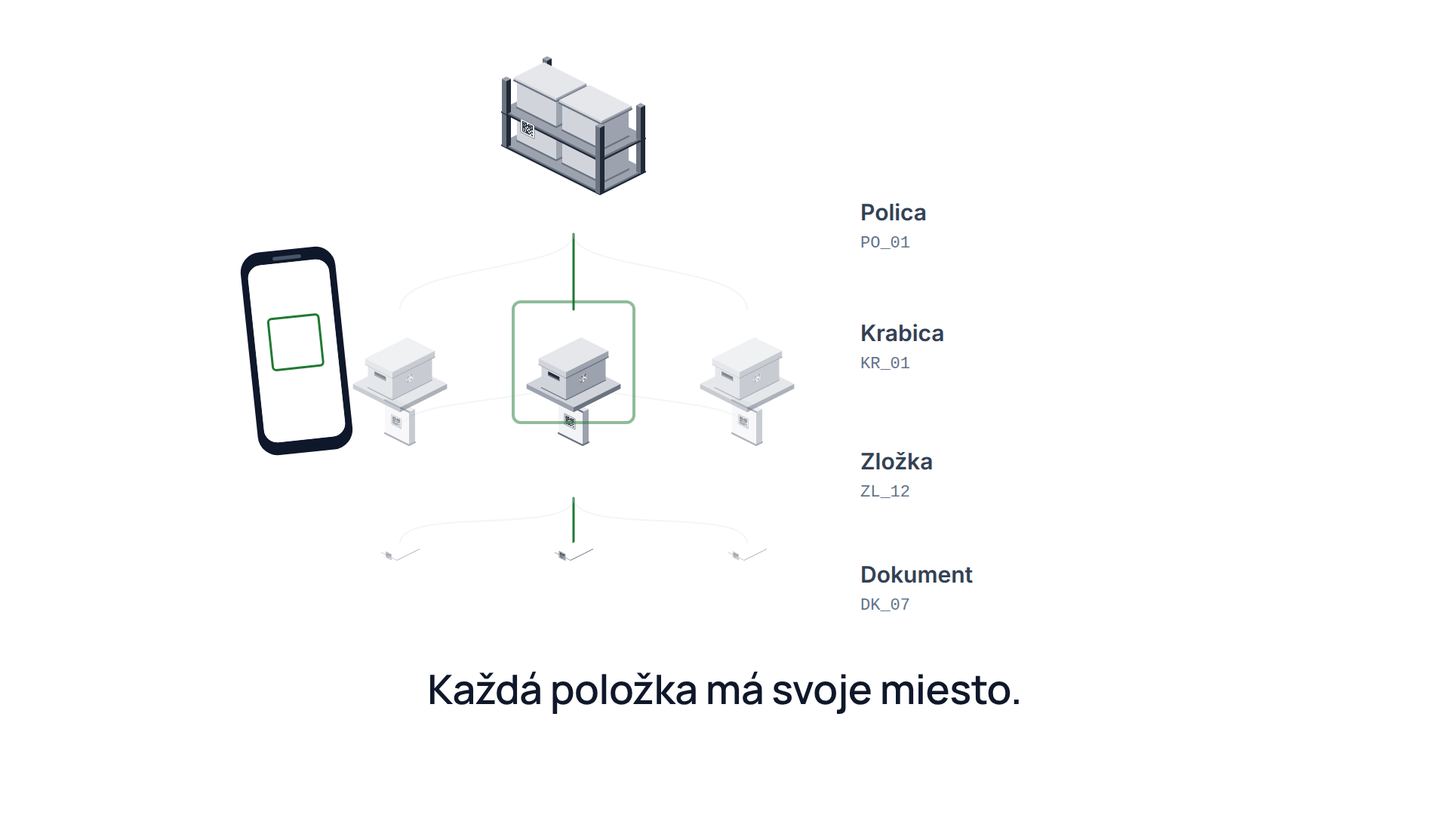
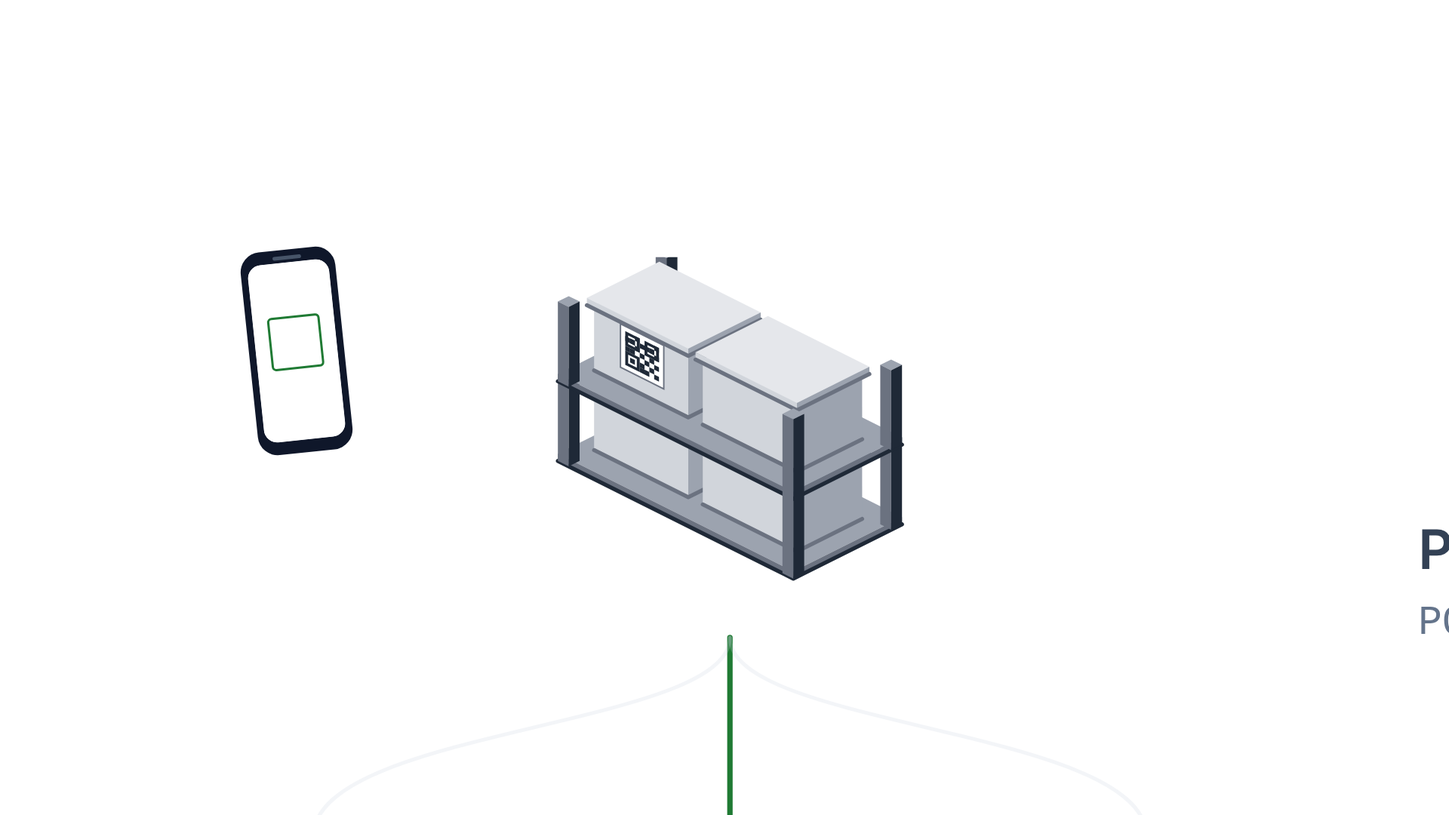
Kolo 7: otázniky pri zložkách (C3), jeden veľký otáznik (C4), C7 prázdna polica + priblíženie na policu, 12 s
Claude-Session: https://claude.ai/code/session_0174g5XfE49UzAEjnWwaQFuK

diff --git a/src/scenes/C7_Hierarchia.tsx b/src/scenes/C7_Hierarchia.tsx
@@ -4,6 +4,7 @@ import { Scene, useCaptions } from '../components/Scene';
 import { Caption } from '../components/Text';
 import { PhoneFrame } from '../components/Device';
 import { ArchiveBox } from '../components/ArchiveBox';
+import { Camera } from '../lib/camera';
 import { Binder, Carton, IsoBox, QrOnLeftFace, ShelfFrame } from '../lib/iso';
 import { drawProps, pop, settle, tween } from '../lib/anim';
 import { captions } from '../copy/sk';
@@ -12,21 +13,25 @@ import { BRAND, FONT, INK, ISO, SAFE } from '../theme';
 /**
  * C7 - Hierarchia + sken. Zacina tou istou krabicou ako C5 (zatvorena, s QR,
  * velka v strede); kamera sa oddiali, vedla sa objavia rovnake krabice s
- * medzerou uprostred a velka krabica sa do nej zaradi; nad nou vyrastie
- * polica (2 rady), pod nou zlozky a dokumenty. Mobil naskenuje krabicu,
- * vetva sa zvyrazni; strom vybledne, mobil najde na cely frame = strih. 10 s.
+ * medzerou a velka krabica sa do nej zaradi; nad nou vyrastie prazdna polica
+ * (2 rady), pod nou zlozky a dokumenty. Mobil naskenuje krabicu, vetva sa
+ * zvyrazni; kamera sa priblizi spat na policu a krabice sa do nej poukladaju
+ * (KR_01 s QR); strom vybledne, mobil najde na cely frame = strih. 12 s.
  *
  * ms: 0-500 hold · 500-2000 oddialenie + zaradenie · 900-1400 surodenci ·
- * 2100+ polica, 2500 zlozky, 2900 dokumenty · 2600+i*200 QR · 3000 caption ·
- * 4200 sken · 4700 zvyraznenie vetvy · 6800 caption out · 7000 strom out ·
- * 7300-8500 najazd.
+ * 2100 polica, 2500 zlozky, 2900 dokumenty · 2600+i*200 QR · 3000 caption ·
+ * 4200 sken · 4700 vetva · 5500-7000 priblizenie na policu · 6000+i*250
+ * krabice do police · 8000 caption out · 8500 strom out · 9000-10500 najazd.
  */
 const PX = 3;
 const PHONE_AT = { x: 330, y: 330, w: 7 * PX * 6, h: 15 * PX * 6 };
 const NODE_X = 500;
-const NODES_Y = [130, 330, 500, 650];
+const NODES_Y = [110, 300, 540, 690];
 const BOX = 150; // velkost uzla "Krabica" (ArchiveBox)
 const SIB = 230;
+const SVG_AT = { x: 260, y: SAFE.illoTop };
+// stred police (v px stranky) pre priblizenie
+const SHELF_C = { x: SVG_AT.x + NODE_X - 3, y: SVG_AT.y + NODES_Y[0] + 20 - 47 };
 
 export const C7_Hierarchia: React.FC = () => {
   const frame = useCurrentFrame();
@@ -38,15 +43,16 @@ export const C7_Hierarchia: React.FC = () => {
   const line = (i: number) => tw([2300, 2500, 2900][i], 400);
   const qr = (i: number) => pop(frame, 2600 + i * 200);
   const sibIn = (k: number) => settle(frame, 900 + k * 250);
-  const scan = tw(4200, 500);
+  const scan = tw(4200, 500) * (1 - tw(5500, 400));
   const glow = tw(4700, 400);
-  const treeOut = 1 - tw(7000, 500);
-  const fill = tw(7300, 1200);
+  const placed = (i: number) => pop(frame, 6000 + i * 250);
+  const treeOut = 1 - tw(8500, 500);
+  const fill = tw(9000, 1500);
 
   // velka krabica z C5 (ArchiveBox 860 px) sa zmensi a zasunie do medzery medzi rovnake krabice
   const bigSize = 860 - (860 - BOX) * zoomOut;
-  const nodeLeft = 260 + NODE_X - BOX / 2;
-  const nodeTop = SAFE.illoTop + NODES_Y[1] + 20;
+  const nodeLeft = SVG_AT.x + NODE_X - BOX / 2;
+  const nodeTop = SVG_AT.y + NODES_Y[1] + 20;
   const bigLeft = 960 - bigSize / 2 + (nodeLeft - (960 - BOX / 2)) * zoomOut;
   const bigTop = SAFE.illoTop - 40 + (nodeTop - (SAFE.illoTop - 40)) * zoomOut;
 
@@ -57,17 +63,22 @@ export const C7_Hierarchia: React.FC = () => {
       <g transform={`translate(${x} ${y}) translate(0 ${(1 - t) * -20})`} opacity={t * dim}>
         <g transform="translate(0 20)">
           {level === 0 ? (
-            <g>
-              <ShelfFrame x={-65} y={-30} w={130} d={60} levels={2} levelH={44} topBoard={false}>
-                {(lv) => (
-                  <g>
-                    <Carton x={-57} y={-18} z={lv * 44 + 4} />
-                    <Carton x={3} y={-18} z={lv * 44 + 4} />
-                  </g>
-                )}
-              </ShelfFrame>
-              <QrOnLeftFace x={-40} y={30} z={30} size={18} s={q} />
-            </g>
+            <ShelfFrame x={-65} y={-30} w={130} d={60} levels={2} levelH={44} topBoard={false}>
+              {(lv) => (
+                <g>
+                  {[0, 1].map((k) => {
+                    const i = lv * 2 + k;
+                    const p = placed(i);
+                    const isMain = i === 2;
+                    return (
+                      <g key={k} transform={`translate(0 ${(1 - p) * -30})`} opacity={p}>
+                        <Carton x={-57 + k * 60} y={-18} z={lv * 44 + 4} qr={isMain ? p : 0} />
+                      </g>
+                    );
+                  })}
+                </g>
+              )}
+            </ShelfFrame>
           ) : level === 2 ? (
             <g>
               <Binder x={-16} y={-4} z={0} />
@@ -86,58 +97,60 @@ export const C7_Hierarchia: React.FC = () => {
 
   return (
     <Scene mode="light">
-      <svg width={1400} height={760} viewBox="0 0 1400 760" style={{ position: 'absolute', left: 260, top: SAFE.illoTop, opacity: treeOut }}>
-        {NODES_Y.slice(1).map((ny, i) => {
-          const py = NODES_Y[i] + (i === 0 ? 120 : 100);
-          const t = line(i);
-          return (
-            <g key={i}>
-              {[0, ...sib[i + 1]].map((dx, k) => {
-                const d = `M${NODE_X} ${py} C ${NODE_X} ${py + 50}, ${NODE_X + dx} ${ny - 40}, ${NODE_X + dx} ${ny + (i === 0 ? 20 : 10)}`;
-                const strong = dx === 0;
-                return <path key={k} d={d} fill="none" stroke={strong && glow > 0.5 ? BRAND[600] : INK[300]} strokeWidth={strong ? 3 : 2} strokeLinecap="round" opacity={strong ? 1 : 0.6 * (1 - 0.6 * glow)} {...drawProps(t, 400)} />;
-              })}
+      <Camera keys={[{ ms: 5500, x: 0, y: 0, scale: 1 }, { ms: 7000, x: SHELF_C.x - 960, y: SHELF_C.y - 540, scale: 2.4 }]}>
+        <svg width={1400} height={760} viewBox="0 0 1400 760" style={{ position: 'absolute', left: SVG_AT.x, top: SVG_AT.y, opacity: treeOut }}>
+          {NODES_Y.slice(1).map((ny, i) => {
+            const py = NODES_Y[i] + (i === 0 ? 100 : i === 1 ? 170 : 90);
+            const t = line(i);
+            return (
+              <g key={i}>
+                {[0, ...sib[i + 1]].map((dx, k) => {
+                  const d = `M${NODE_X} ${py} C ${NODE_X} ${py + 50}, ${NODE_X + dx} ${ny - 40}, ${NODE_X + dx} ${ny + (i === 0 ? 20 : 10)}`;
+                  const strong = dx === 0;
+                  return <path key={k} d={d} fill="none" stroke={strong && glow > 0.5 ? BRAND[600] : INK[300]} strokeWidth={strong ? 3 : 2} strokeLinecap="round" opacity={strong ? 1 : 0.6 * (1 - 0.6 * glow)} {...drawProps(t, 400)} />;
+                })}
+              </g>
+            );
+          })}
+          {NODES_Y.map((ny, i) =>
+            i === 1 ? null : (
+              <g key={i}>
+                {sib[i].map((dx, k) => (
+                  <Node key={k} level={i} x={NODE_X + dx} y={ny} t={lvl(i)} q={qr(i) * 0.9} />
+                ))}
+                <Node level={i} x={NODE_X} y={ny} main t={lvl(i)} q={qr(i)} />
+              </g>
+            ),
+          )}
+          {NODES_Y.map((ny, i) => (
+            <g key={`t${i}`}>
+              <text x={NODE_X + 380} y={ny + 62 + (i === 0 ? 0 : i === 1 ? 20 : -10)} fontFamily={FONT.body} fontSize={30} fontWeight={600} fill={INK[700]} opacity={(i === 1 ? zoomOut : lvl(i)) * zoomOut}>
+                {['Polica', 'Krabica', 'Zložka', 'Dokument'][i]}
+              </text>
+              <text x={NODE_X + 380} y={ny + 98 + (i === 0 ? 0 : i === 1 ? 20 : -10)} fontFamily="ui-monospace, Menlo, monospace" fontSize={22} fill={INK[500]} opacity={qr(i) * zoomOut}>
+                {['PO_01', 'KR_01', 'ZL_12', 'DK_07'][i]}
+              </text>
             </g>
+          ))}
+          <rect x={NODE_X - 80} y={NODES_Y[1] + 10} width={160} height={160} rx={10} fill="none" stroke={BRAND[600]} strokeWidth={4} opacity={scan * (1 - glow * 0.5)} transform={`translate(${NODE_X} ${NODES_Y[1] + 90}) scale(${1.3 - 0.3 * scan}) translate(${-NODE_X} ${-NODES_Y[1] - 90})`} />
+        </svg>
+
+        {/* surodenci: rovnake krabice vlavo a vpravo, medzera uprostred pre hlavnu */}
+        {sib[1].map((dx, k) => {
+          const t = sibIn(k);
+          return (
+            <div key={k} style={{ position: 'absolute', left: nodeLeft + dx, top: nodeTop, opacity: t * treeOut * (0.55 + 0.45 * (1 - glow)), transform: `translateX(${(1 - t) * -dx * 0.3}px)` }}>
+              <ArchiveBox state={{ lid: 0, binders: [0, 0, 0], qr: [0, 0, 0, 1] }} size={BOX} />
+            </div>
           );
         })}
-        {NODES_Y.map((ny, i) =>
-          i === 1 ? null : (
-            <g key={i}>
-              {sib[i].map((dx, k) => (
-                <Node key={k} level={i} x={NODE_X + dx} y={ny} t={lvl(i)} q={qr(i) * 0.9} />
-              ))}
-              <Node level={i} x={NODE_X} y={ny} main t={lvl(i)} q={qr(i)} />
-            </g>
-          ),
-        )}
-        {NODES_Y.map((ny, i) => (
-          <g key={`t${i}`}>
-            <text x={NODE_X + 380} y={ny + 62 + (i === 0 ? 40 : 0)} fontFamily={FONT.body} fontSize={30} fontWeight={600} fill={INK[700]} opacity={(i === 1 ? zoomOut : lvl(i)) * zoomOut}>
-              {['Polica', 'Krabica', 'Zložka', 'Dokument'][i]}
-            </text>
-            <text x={NODE_X + 380} y={ny + 98 + (i === 0 ? 40 : 0)} fontFamily="ui-monospace, Menlo, monospace" fontSize={22} fill={INK[500]} opacity={qr(i) * zoomOut}>
-              {['PO_01', 'KR_01', 'ZL_12', 'DK_07'][i]}
-            </text>
-          </g>
-        ))}
-        <rect x={NODE_X - 80} y={NODES_Y[1] + 10} width={160} height={160} rx={10} fill="none" stroke={BRAND[600]} strokeWidth={4} opacity={scan * (1 - glow * 0.5)} transform={`translate(${NODE_X} ${NODES_Y[1] + 90}) scale(${1.3 - 0.3 * scan}) translate(${-NODE_X} ${-NODES_Y[1] - 90})`} />
-      </svg>
+        {/* hlavna krabica: ta ista ako v C5, zmensuje sa a zaradi sa do medzery */}
+        <div style={{ position: 'absolute', left: bigLeft, top: bigTop, opacity: treeOut }}>
+          <ArchiveBox state={{ lid: 0, binders: [0, 0, 0], qr: [0, 0, 0, 1] }} size={bigSize} />
+        </div>
+      </Camera>
 
-      {/* surodenci: rovnake krabice vlavo a vpravo, medzera uprostred pre hlavnu */}
-      {sib[1].map((dx, k) => {
-        const t = sibIn(k);
-        return (
-          <div key={k} style={{ position: 'absolute', left: nodeLeft + dx, top: nodeTop, opacity: t * treeOut * (0.55 + 0.45 * (1 - glow)), transform: `translateX(${(1 - t) * -dx * 0.3}px)` }}>
-            <ArchiveBox state={{ lid: 0, binders: [0, 0, 0], qr: [0, 0, 0, 1] }} size={BOX} />
-          </div>
-        );
-      })}
-      {/* hlavna krabica: ta ista ako v C5, zmensuje sa a zaradi sa do medzery */}
-      <div style={{ position: 'absolute', left: bigLeft, top: bigTop, opacity: treeOut }}>
-        <ArchiveBox state={{ lid: 0, binders: [0, 0, 0], qr: [0, 0, 0, 1] }} size={bigSize} />
-      </div>
-
-      <div style={{ position: 'absolute', inset: 0, opacity: scan }}>
+      <div style={{ position: 'absolute', inset: 0, opacity: tw(4200, 500) * (fill > 0 ? 1 : 1) }}>
         <PhoneFrame at={PHONE_AT} fill={fill} rotate={-6}>
           <div style={{ position: 'absolute', inset: 0, background: '#fff' }}>
             <div style={{ position: 'absolute', inset: '30% 18% 40% 18%', border: `3px solid ${BRAND[600]}`, borderRadius: 6, opacity: 1 - fill }} />

diff --git a/src/scenes/C4_Cena.tsx b/src/scenes/C4_Cena.tsx
@@ -8,7 +8,7 @@ import { PriceTag, QuestionMark, Sheet } from '../components/Illustrations';
 import { drawProps, pop, settle, tween } from '../lib/anim';
 import { captions } from '../copy/sk';
 import { BRAND, CM, FONT, NAVY, SAFE } from '../theme';
-import { CAM_END, SV, TARGET_SHELF, VB } from './C3_Sklad';
+import { CAM_END, SEARCH_QMS, SV, TARGET_SHELF, VB } from './C3_Sklad';
 
 /**
  * C4 - Cena. Zacina rovnakym zaberom ako koniec C3. Regal sa odsunie
@@ -24,7 +24,9 @@ export const C4_Cena: React.FC = () => {
   const frame = useCurrentFrame();
   const showCap = useCaptions();
   const tw = (s: number, d: number) => tween(frame, s, d);
-  const qms = [0, 1, 2, 3, 4, 5].map((i) => pop(frame, 1400 + i * 180));
+  // male otazniky z C3 sa stiahnu do jedneho bodu a zaniknu; na ich mieste jeden velky
+  const merge = tw(800, 500);
+  const bigQ = pop(frame, 1100);
   const clock = settle(frame, 2600);
   const hand = tw(2600, 1600) * 720;
   const arrow = tw(3400, 500);
@@ -33,17 +35,8 @@ export const C4_Cena: React.FC = () => {
   const tagA = pop(frame, 4600);
   const big = pop(frame, 5400, { damping: 12 });
   const s = TARGET_SHELF;
-  // otazniky presne nad stlpcami krabic (2 stlpce x 3), tesne nad vrchnou doskou
   const top = 2 * CM.shelf.level + 4;
-  const qPos: [number, number, number][] = [0, 1].flatMap((k) => {
-    const cx = s.x + 34 + k * 60,
-      cy = s.y + 30;
-    return [
-      [cx, cy, top + 14],
-      [cx - 12, cy + 4, top + 34],
-      [cx + 10, cy - 6, top + 52],
-    ] as [number, number, number][];
-  });
+  const bigQAt = iso(s.x + 65, s.y + 30, top + 40);
   return (
     <Scene mode="dark">
       <Camera keys={[{ ms: 0, ...CAM_END }, { ms: 1700, x: CAM_END.x + 400 / CAM_END.scale, y: CAM_END.y + 70 / CAM_END.scale, scale: 1.5 }]}>
@@ -55,10 +48,13 @@ export const C4_Cena: React.FC = () => {
             const [qx, qy] = iso(s.x + 65, s.y + 30, 2 * CM.shelf.level + 14);
             return <QuestionMark x={qx} y={qy} s={0.4 * (1 - tw(800, 500))} />;
           })()}
-          {qPos.map(([x, y, z], i) => {
+          {SEARCH_QMS.map(([x, y, z], i) => {
             const [qx, qy] = iso(x, y, z);
-            return <QuestionMark key={i} x={qx} y={qy} s={qms[i] * 0.36} />;
+            const px = qx + (bigQAt[0] - qx) * merge,
+              py = qy + (bigQAt[1] - qy) * merge;
+            return <QuestionMark key={i} x={px} y={py} s={0.3 * (1 - merge)} />;
           })}
+          <QuestionMark x={bigQAt[0]} y={bigQAt[1]} s={bigQ * 0.9} />
         </svg>
       </Camera>
 

diff --git a/src/scenes/C3_Sklad.tsx b/src/scenes/C3_Sklad.tsx
@@ -80,6 +80,19 @@ export const SearchCarton: React.FC<{ x: number; y: number; z: number; lid: numb
   );
 };
 
+/** Male otazniky nad krabicou pri kazdom vytiahnuti zlozky (box A 7200, box B 10400): [x, y, z, ms]. */
+export const SEARCH_QMS: [number, number, number, number][] = (() => {
+  const s = TARGET_SHELF;
+  const top = SHELF_LEVEL * CM.shelf.level + 4 + CM.carton.h + 4;
+  const out: [number, number, number, number][] = [];
+  [7200, 10400].forEach((start, k) => {
+    const cx = s.x + 8 + k * 60 + 26,
+      cy = s.y + 12 + 18;
+    [0, 1, 2].forEach((i) => out.push([cx - 14 + i * 14, cy + (i === 1 ? -8 : 6), top + 22 + i * 14, start + 500 + i * 650]));
+  });
+  return out;
+})();
+
 export const C3_Sklad: React.FC = () => {
   const frame = useCurrentFrame();
   const showCap = useCaptions();
@@ -142,6 +155,12 @@ export const C3_Sklad: React.FC = () => {
                     })
                   }
                 </ShelfFrame>
+                {isTarget
+                  ? SEARCH_QMS.map(([x, y, z, ms], i) => {
+                      const [qx, qy] = iso(x, y, z);
+                      return <QuestionMark key={`q${i}`} x={qx} y={qy} s={pop(frame, ms) * 0.3} />;
+                    })
+                  : null}
                 {isTarget ? (() => {
                   const [qx, qy] = iso(s.x + 65, s.y + 30, 2 * CM.shelf.level + 14);
                   return <QuestionMark x={qx} y={qy} s={qEnd * 0.4} />;

diff --git a/src/scenesList.ts b/src/scenesList.ts
@@ -21,7 +21,7 @@ export const SCENE_LIST: [string, SceneDef][] = [
   ['C4-Cena', { component: C4_Cena, seconds: 9, stills: [10, 110, 250] }],
   ['C5-Teren', { component: C5_Teren, seconds: 10, stills: [70, 170, 285] }],
   ['C6-Spracovanie', { component: C6_Spracovanie, seconds: 7, stills: [40, 110, 200] }],
-  ['C7-Hierarchia', { component: C7_Hierarchia, seconds: 10, stills: [10, 100, 180] }],
+  ['C7-Hierarchia', { component: C7_Hierarchia, seconds: 12, stills: [15, 120, 230] }],
   ['C8-Pilot', { component: C8_Pilot, seconds: 7, stills: [50, 110, 180] }],
   ['C9-Outro', { component: C9_Outro, seconds: 5, stills: [40, 120] }],
 ];

diff --git a/STORYBOARD.md b/STORYBOARD.md
@@ -1,4 +1,4 @@
-# Storyboard – Assetin Archives (kolo 6)
+# Storyboard – Assetin Archives (kolo 7)
 
 Stav: ☐ still na schválenie · ☑ still schválený · ▶ animácia hotová · 🎞 finálne MP4
 
@@ -13,15 +13,15 @@ strihový bod pre footage; náhľad Full má tvrdé strihy.
 |---|---|---|---|---|---|---|
 | C1-Intro | Intro | navy | Lockup (domček + „assetin“/„Archives“) v strede; texty sa zasunú do domčeka a domček sa pritom presunie presne do stredu; kamera preletí dovnútra domčeka do navy | – | 5 s | ☐ ▶ |
 | C2-Kancelaria | Skriňa pri stole | navy | Zelený panáčik príde ku skrini (stolička pred stolom), otvorí krídlo (otáča sa okolo pántu), vnútri šanóny, rolky, listy; hľadá („?“ tesne nad hlavou), vyhadzuje veci – vyletia oblúkom a dopadnú v rade pred skriňou | 3 s „Dokumentáciu máte. Nikto ju nevie nájsť.“ | 8 s | ☐ ▶ |
-| C3-Sklad | Sklad → regál | navy | Postavička klučkuje uličkou (cesta pod objektmi) a zastaví pred stredným regálom, „?“; kamera nájde na jeho hornú policu s dvoma krabicami (regál bez vrchnej dosky, vidno do krabíc), sklad vybledne; prvá krabica: veko sa odklopí, vidno dno a zložky vnútri, zložky sa postupne vyberú a vrátia, veko dole; to isté druhá; nič sa nenašlo, „?“ | 4 s „V sklade to nie je lepšie.“ · 11,5 s „Je to niekde tam.“ | 14 s | ☐ ▶ |
-| C4-Cena | 2× | navy | Začína rovnakým regálom ako koniec C3; regál sa odsunie doľava, otázniky priamo nad krabicami; hodiny (tmavý ciferník, biely prstenec) v strede medzery, točiaca sa ručička (hľadanie trvá), šípka k výkresu s pečiatkou (rýchlejšie spraviť nanovo); cenovky; až potom „2×“ | 5,8 s „Zaplatené dvakrát za tú istú dokumentáciu.“ | 9 s | ☐ ▶ |
+| C3-Sklad | Sklad → regál | navy | Postavička klučkuje uličkou (cesta pod objektmi) a zastaví pred stredným regálom, „?“; kamera nájde na jeho hornú policu s dvoma krabicami (regál bez vrchnej dosky, vidno do krabíc), sklad vybledne; prvá krabica: veko sa odklopí, vidno dno a zložky vnútri, zložky sa postupne vyberú a vrátia (pri každej vyskočí malý „?“ nad krabicou), veko dole; to isté druhá; nič sa nenašlo, väčší „?“ | 4 s „V sklade to nie je lepšie.“ · 11,5 s „Je to niekde tam.“ | 14 s | ☐ ▶ |
+| C4-Cena | 2× | navy | Začína rovnakým regálom ako koniec C3; regál sa odsunie doľava, malé otázniky z C3 sa zlejú do jedného veľkého „?“; hodiny (tmavý ciferník, biely prstenec) v strede medzery, točiaca sa ručička (hľadanie trvá), šípka k výkresu s pečiatkou (rýchlejšie spraviť nanovo); cenovky; až potom „2×“ | 5,8 s „Zaplatené dvakrát za tú istú dokumentáciu.“ | 9 s | ☐ ▶ |
 | C5-Teren →📹 | V sklade | biela | Dlaždica z webu (veko, zložky, hustejšie QR B/W), hárok nálepiek A4, mobil odfotí štítok, ID KR_01; nájazd do displeja → biely frame | 5 s „Nalepiť QR, odfotiť. Celá práca v teréne.“ | 10 s | ☐ ▶ |
 | C6-Spracovanie →📹 (?) | Fotka → aplikácia | biela | Bez zmeny; možno vypadne a footage pôjde rovno za C5 | 3 s „Text z fotky rozpozná a navrhne údaje.“ | 7 s | ☐ ▶ |
-| C7-Hierarchia →📹 | Hierarchia + sken | biela | Začína tou istou krabicou ako C5 (KR_01), kamera sa oddiali, vedľa sa objavia dve rovnaké krabice s medzerou a KR_01 sa do nej zaradí; nad ňou vyrastie polica (2 rady krabíc), pod ňou zložky a dokumenty; mobil naskenuje krabicu, vetva sa zvýrazní zelenou čiarou (bez kruhov); strom vybledne, mobil nájde na celý frame → footage | 3 s „Každá položka má svoje miesto.“ | 10 s | ☐ ▶ |
+| C7-Hierarchia →📹 | Hierarchia + sken | biela | Začína tou istou krabicou ako C5 (KR_01), kamera sa oddiali, vedľa sa objavia dve rovnaké krabice s medzerou a KR_01 sa do nej zaradí; nad ňou vyrastie prázdna polica (2 rady), pod ňou zložky a dokumenty; mobil naskenuje krabicu, vetva sa zvýrazní zelenou čiarou; kamera nájde späť na policu, krabice sa do nej poukladajú (KR_01 s QR); strom vybledne, mobil nájde na celý frame → footage | 3 s „Každá položka má svoje miesto.“ | 12 s | ☐ ▶ |
 | C8-Pilot | Jedna krabica | biela | Bez zmeny (upraví sa neskôr) | 2 s „Začneme jednou krabicou.“ | 7 s | ☐ ▶ |
 | C9-Outro | Outro | zelená | Logo, wordmark, „Assetin, s. r. o.“, web. Bez kontaktov | – | 5 s | ☐ ▶ |
 
-Celkovo 75 s animácie + footage podľa strihu.
+Celkovo 77 s animácie + footage podľa strihu.
 
 ## Stills a kontrola
 
@@ -45,7 +45,7 @@ S04-Pokusy (Excel a skener), S10-Nasadenie (U nás / U vás) vo Folder „Option
 - kolo 1: „vyzerá ako prezentácia, priveľa textu, nie je miesto na footage“ → kolo 2.
 - kolo 2: „mierka ikon nesedí, chýba kancelária, texty sa prekrývajú s ikonami, simulácia UI je zbytočná (príde footage), zelené QR, presahy medzi scénami“ → kolo 3 (tento stav).
 - kolo 3 + oprava QR/kancelárie: schválené → Fáza 2 (finálne MP4).
-- kolo 4, 5 a 6 (pripomienky z review stránky, viď FEEDBACK.md): zapracované; nové MP4 na review stránke.
+- kolo 4 až 7 (pripomienky z review stránky, viď FEEDBACK.md): zapracované; nové MP4 na review stránke.
 
 ## Review stránka
 
@@ -62,7 +62,7 @@ Všetko 1920×1080, 30 fps, H.264, yuv420p (obmedzený rozsah), bez zvuku.
 |---|---|
 | `out/mp4/C1-Intro.mp4` … `C9-Outro.mp4` | klipy s textom v obraze |
 | `out/mp4/nocap/C2…C8.mp4` | tie isté klipy bez textu (pre voiceover / vlastné titulky) |
-| `out/mp4/Full_1080p.mp4` | všetkých 9 klipov za sebou, tvrdé strihy, 70 s – kontrola tempa |
+| `out/mp4/Full_1080p.mp4` | všetkých 9 klipov za sebou, tvrdé strihy, 77 s – kontrola tempa |
 | `out/mp4/Full_preview_540p.mp4` | to isté v polovičnom rozlíšení |
 | `out/mp4/F_phone_enter.mp4`, `F_window_enter.mp4` | placeholder rámika zariadenia (8 s), do ktorého sa v Remotione dá vložiť footage |
 | `out/stills/contact-sheet.png` | stredný frame každého klipu v mriežke |

diff --git a/FEEDBACK.md b/FEEDBACK.md
@@ -32,3 +32,11 @@
 | C3 Sklad | Priblíži sa iný regál, než ku ktorému panáčik prišiel; nevidno dno a hĺbku krabice; regál rozbitý (dosky nenadväzujú na stĺpiky). | Cesta končí pred stredným regálom, ktorý sa priblíži; panáčik bledne až počas nájazdu. Nová otvorená krabica (vnútorné steny, dno, zložky vnútri trčia von). Regál kreslený po vrstvách (stĺpiky po úrovniach, dosky so stĺpikmi nadväzujú), bez vrchnej dosky, aby bolo vidieť do krabíc. |
 | C4 Cena | Regál rozbitý; otázniky nad krabicami; hodiny nevycentrované a splývajú. | Rovnaký opravený regál; otázniky v dvoch zhlukoch nad stĺpcami krabíc; hodiny s tmavým ciferníkom a bielym prstencom v strede medzery medzi regálom a výkresom; šípka a výkres posunuté; „2×“ nad hodinami. |
 | C7 Hierarchia | Nevidno, že je to tá istá krabica; polička potrebuje ďalší rad a rovnakú opravu; zelené kruhy prekrývajú všetko. | Uzol „Krabica“ je priamo krabica z C5; súrodenci sú rovnaké krabice, objavia sa s medzerou uprostred a KR_01 sa do nej zasunie. Polica 2 rady (4 krabice) s opraveným regálom. Zelené kruhy odstránené, vetva sa zvýrazní len čiarou a rámčekom skenu. |
+
+## Kolo 7 (20. 9. 2026, 18:43)
+
+| Klip | Pripomienka (skrátene) | Riešenie |
+|---|---|---|
+| C3 Sklad | Otázniky majú začať vyskakovať skôr, cca keď sa vytiahne prvá zložka. | Malý „?“ vyskočí nad krabicou pri každom vytiahnutí zložky (3× box A, 3× box B), ostávajú; záverečný väčší „?“ ostáva. |
+| C4 Cena | Má ostať jeden veľký otáznik, potom ide čas (hodiny), potom 2×. | Malé otázniky z konca C3 sa stiahnu do jedného bodu a na ich mieste vyskočí jeden veľký „?“; zhluk šiestich otáznikov zrušený. Hodiny → šípka → výkres + cenovky → 2× ostávajú (potvrdené). |
+| C7 Hierarchia | Polica bez krabíc (vetvia sa nižšie); najprv rozovrieť celý strom, potom priblížiť späť na policu s poukladanými krabicami; zložky nevidno/prekrývajú sa. | Uzol police je prázdny rám; rozostupy úrovní väčšie (nič sa neprekrýva). Po skene kamera nájde späť na policu a krabice sa do nej poukladajú (KR_01 s QR); potom mobil nájde na frame. Klip 12 s (potvrdené). |

diff --git a/VOICEOVER.md b/VOICEOVER.md
@@ -31,10 +31,11 @@ _(bez náhovoru)_
 - 0–3 s: „Fotka ide do aplikácie.“
 - 3–7 s: _Text z fotky rozpozná a navrhne údaje._ — „Text rozpozná automaticky a navrhne metadáta: stavbu, projektanta, rok, stupeň.“ → footage: OCR, návrh metadát, potvrdenie konzultantom („Návrh nie je záznam, platný je až po kontrole človekom.“)
 
-## C7 · Hierarchia (10 s) →📹 mobil
+## C7 · Hierarchia (12 s) →📹 mobil
 - 0–3 s: „Tá istá krabica má odteraz jednoznačné ID a miesto v hierarchii: polica, krabica, zložka, dokument.“
 - 3–6 s: _Každá položka má svoje miesto._ — „Naskenujete krabicu a viete, čo je vnútri. Bez otvárania.“
-- 6–9 s: → footage: vyhľadávanie, filtrovanie, fyzická lokácia („Celý archív v jednej tabuľke. Od dotazu k policovému miestu jeden krok.“)
+- 6–9 s: „…a viete aj, na ktorej polici stojí.“ (kamera nájde na policu, krabice sa poukladajú)
+- 9–12 s: → footage: vyhľadávanie, filtrovanie, fyzická lokácia („Celý archív v jednej tabuľke. Od dotazu k policovému miestu jeden krok.“)
 
 ## C8 · Pilot (7 s)
 - 0–3 s: _Začneme jednou krabicou._ — „Nezačíname celým archívom.“
